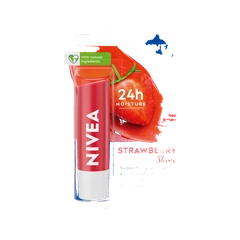
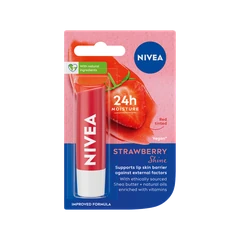
Arreglo de tonos: Nivea Strawberry Shine completo y muestras del Sublime
- Lip care Nivea: el fondo blanco se quita solo desde los bordes de la foto,
  sin recortador automático, que cortaba el empaque de Strawberry Shine.
- Iluminador Sublime: cada tono muestra su textura, recortada de la foto de
  la tienda que las rotula TONO 01 y TONO 02, para que se diferencien.

Claude-Session: https://claude.ai/code/session_01LNLN1rUKGy8qFZBEtECZrz

Changed region(s): [[0.2625, 0.1167, 0.7583, 0.875]]

diff --git a/scripts/fetch-shades.py b/scripts/fetch-shades.py
@@ -18,7 +18,8 @@ import html, io, json, re, sys, unicodedata, urllib.request
 from pathlib import Path
 from urllib.parse import parse_qs, quote, unquote, urlencode, urljoin, urlsplit
 
-from PIL import Image
+import numpy as np
+from PIL import Image, ImageDraw
 
 ROOT = Path(__file__).resolve().parent.parent
 DATA = ROOT / 'data' / 'products.json'
@@ -63,7 +64,10 @@ SHADE_PAGES = {
     'Atenea|Base de maquillaje 1ST Scene': 'https://ateneaprofesional.com/products/mini-base-liquida-1st-scene',
     'Atenea|Rubor compacto 1ST Scene': 'https://ateneaprofesional.com/products/rubores-individuales-1st-scene',
     'Atenea|Bronzer cremoso en barra': 'https://ateneaprofesional.com/products/bronzer-cremoso',
-    'Atenea|Iluminador efecto húmedo Sublime': 'https://ateneaprofesional.com/products/iluminador-efecto-humedo-sublime',
+    # Sublime: las dos muestras de textura de la foto de la tienda ("TONO 01" arriba, "TONO 02" abajo), recortadas.
+    'Atenea|Iluminador efecto húmedo Sublime': {
+        'items': [('SH001', 'https://cdn.shopify.com/s/files/1/0741/6132/4314/files/ILUMINADOR_EFECTO_HUMEDO-03.webp#crop=0,0,0.5,0.5'), ('SH002', 'https://cdn.shopify.com/s/files/1/0741/6132/4314/files/ILUMINADOR_EFECTO_HUMEDO-03.webp#crop=0,0.5,0.5,1')],
+        'label': 'Color', 'source': 'https://ateneaprofesional.com/products/iluminador-efecto-humedo-sublime'},
     'Atenea|Serum Tinted 1ST Scene': 'https://ateneaprofesional.com/products/serum-tinted-foundation',
     'Atenea|Rubor cremoso en barra': 'https://ateneaprofesional.com/products/rubor-en-barra-cremoso-atenea-collection',
     'Atenea|Pigmento Soft Touch': 'https://ateneaprofesional.com/products/sombra-cremosa-individual',
@@ -230,10 +234,33 @@ KEEP_BACKGROUND = {
     'Bloomshell|Trío de Rubores', 'Samy|Paleta de sombras x9',
     # Las fotos de cada tono traen una tarjeta blanca con íconos que el recorte no separa.
     'Atenea|Rubor cremoso en barra',
+    # Muestras de textura recortadas y empaque de Nivea, que el recorte cortaba.
+    'Atenea|Iluminador efecto húmedo Sublime',
 }
+# Fotos con fondo que deben verse completas dentro del círculo (empaques que llegan al borde de la foto).
+FIT_IN_CIRCLE = set()
+# Fondo blanco liso: se vuelve transparente solo el blanco conectado con los bordes de la foto (sin
+# recortador automático, que aquí borraba partes del empaque). El producto no se toca.
+WHITE_BACKGROUND = {'Nivea|Lip care - 24 horas de humectación'}
+
+
+def white_to_alpha(img, tolerance=12):
+    """Transparente el blanco liso que toca los bordes (relleno desde los bordes, no dentro del producto)."""
+    work = img.convert('RGB')
+    w, h = work.size
+    marker = (1, 254, 3)                                  # color que no aparece en la foto
+    edges = [(x, y) for x in range(0, w, max(1, w // 40)) for y in (0, h - 1)] \
+        + [(x, y) for y in range(0, h, max(1, h // 40)) for x in (0, w - 1)]
+    for xy in edges:
+        if all(c >= 255 - tolerance for c in work.getpixel(xy)):
+            ImageDraw.floodfill(work, xy, marker, thresh=tolerance)
+    background = np.all(np.array(work) == marker, axis=2)
+    out = np.array(img.convert('RGBA'))
+    out[background, 3] = 0
+    return Image.fromarray(out)
 
 # Tonos cuyas fotos de la tienda no muestran el producto (primer plano de textura, ambiente): solo nombres.
-NAMES_ONLY = {'Atenea|Iluminador efecto húmedo Sublime'}
+NAMES_ONLY = set()
 
 _SESSION = None
 MARGIN = 0.10         # aire mínimo alrededor del producto
@@ -274,10 +301,13 @@ def frame_product(img, size):
     return canvas.resize((size, size), Image.LANCZOS) if side > size else canvas
 
 
-def square(img):
-    """Lienzo cuadrado con la foto centrada y completa (relleno con el color de la esquina)."""
+def square(img, fit=False):
+    """Lienzo cuadrado con la foto centrada y completa (relleno con el color de la esquina).
+    Con fit=True el lienzo crece hasta que las esquinas de la foto caben en el círculo de la web."""
     img = img.convert('RGBA')
     side = max(img.size)
+    if fit:
+        side = round(max(side, (img.width ** 2 + img.height ** 2) ** 0.5 / DISC))
     corner = img.getpixel((0, 0))
     bg = corner if corner[3] > 0 else (217, 211, 195, 255)   # beige del disco si es transparente
     canvas = Image.new('RGBA', (side, side), bg)
@@ -428,9 +458,12 @@ def woocommerce_options(url):
 
 
 def fixed_items(items, source):
-    """Opciones con nombre fijo, cada una con su página de producto (VTEX con /p, o datos estructurados)."""
+    """Opciones con nombre fijo, cada una con su página de producto (VTEX con /p, datos estructurados) o su foto."""
     found = []
     for name, page in items:
+        if re.search(r'\.(jpe?g|png|webp)(#crop=[\d.,]+)?$', page, re.I):   # foto directa, con su "#crop=" si lo trae
+            found.append((name, page))
+            continue
         page, _, n = page.partition('#')                      # "#N": foto N de la página (sin letreros)
         n = int(n or 1) - 1
         parts = urlsplit(page)
@@ -444,7 +477,7 @@ def fixed_items(items, source):
     return 'Opción', found, source
 
 
-def shades_for(product, url, keep_background=False):
+def shades_for(product, url, keep_background=False, fit=False, white_bg=False):
     if isinstance(url, dict) and 'items' in url:
         option, items, url = fixed_items(url['items'], url['source'])
     elif isinstance(url, dict) and 'woo' in url:
@@ -480,14 +513,22 @@ def shades_for(product, url, keep_background=False):
         shade = {'name': name}
         if src:
             src = urljoin(url, src)
+            src, _, crop = src.partition('#crop=')               # "#crop=x0,y0,x1,y1": recorte (fracciones de la foto)
             original = Image.open(io.BytesIO(get(src)))
+            if white_bg and not has_transparency(original):
+                original = white_to_alpha(original)
+            if crop:
+                x0, y0, x1, y1 = (float(v) for v in crop.split(','))
+                w, h = original.size
+                original = original.crop((round(x0 * w), round(y0 * h), round(x1 * w), round(y1 * h)))
+                src = f'{src}#crop={crop}'
             path = OUT / product['id'] / f'{slug(name)}.webp'
             path.parent.mkdir(parents=True, exist_ok=True)
             if src in seen_src:                       # misma foto para otro tono: no se recorta dos veces
                 big = seen_src[src]
             else:
                 if keep_background:
-                    big = square(original)
+                    big = square(original, fit=fit)
                     big = big.resize((LARGE, LARGE), Image.LANCZOS) if big.width > LARGE else big
                 else:
                     big = frame_product(original, LARGE)   # sin fondo, sobre el beige de la web
@@ -525,7 +566,7 @@ def main():
             print(f'!! {key}: no está en data/products.json')
             continue
         try:
-            shades, note, page_url = shades_for(product, url, key in KEEP_BACKGROUND)
+            shades, note, page_url = shades_for(product, url, key in KEEP_BACKGROUND, key in FIT_IN_CIRCLE, key in WHITE_BACKGROUND)
         except Exception as exc:   # red bloqueada, página movida…
             print(f'!! {key}: {exc}')
             continue

diff --git a/docs/AUDITORIA.md b/docs/AUDITORIA.md
@@ -587,7 +587,7 @@ Ajustes de nombres autorizados: Base Glow Filter sin el sufijo "Glow Filter" (la
 - **Chap Stick Protector labial:** cada sabor del catálogo (Fresa, Cereza, Menta y Medicado) se puede elegir con su foto de chapstick.com.co (autorizado por Ágata Beauty).
 - **Sin foto oficial utilizable todavía:** Skin 1004 Poremizing (todas las fotos son con modelo o con sello publicitario); presentaciones de 30 y 40 ml de Leche pal pelo (la tienda solo tiene 440 ml / 800 ml); Lehit no publica fotos de productos en su página; Prosa Aceite para pestañas no está en su tienda; Maybelline, Garnier y Johnson's se toman de las tiendas que indicó Ágata Beauty (Medipiel, Cromantic, Éxito); descartadas: Garnier Pure Active (todas las fotos con letreros) y Johnson's Baño líquido Avena y Antes de dormir (otra versión de la etiqueta). Lehit: 2 de 4 desde tiendalehit.com (las de aguacate y cebolla traen adornos que quedan sueltos al quitar el fondo). Johnson's Shampoo cabello oscuro y amarillo (La Rebaja): descartados porque la tienda muestra frasco con tapa y el catálogo con dosificador. Cruz Verde no permite descargar sus fotos sin sesión; Ágata Beauty dio enlaces de Éxito en su lugar: Garnier 100 ml, Johnson's cabello claro y Crema líquida baby ya tienen foto; Garnier vitamina C (fotos con letreros o mano) y Johnson's Crema líquida avena (otra etiqueta) siguen con la foto del catálogo.
 - **Revisión de Ágata Beauty (recortes con zonas borradas):** vuelven a la foto del catálogo Montoc Base Glow Filter, Bloomshell Trío de Rubores, Papel Bloom powder paper y Kit Kiss Love, Majikal Shiny Lip Oil y Atenea Matterpowder; y las fotos de los tonos de Base Glow Filter, Kit Fluffy, Base 2 en 1, Trío de Rubores y Paleta x9 de Samy se muestran con el fondo de la tienda (`KEEP_BACKGROUND`).
-- **Tonos agregados:** Atenea Serum Tinted 1ST Scene (9) y Rubor cremoso en barra (4, nombres del catálogo), Nivea Lip care (Strawberry Shine y Blackberry Shine, desde nivea.com.co). Iluminador Sublime: solo los nombres SH001 y SH002, porque las fotos de la tienda son de textura o de ambiente.
+- **Tonos agregados:** Atenea Serum Tinted 1ST Scene (9) y Rubor cremoso en barra (4, nombres del catálogo), Nivea Lip care (Strawberry Shine y Blackberry Shine, desde nivea.com.co). Iluminador Sublime: cada tono muestra su muestra de textura, recortada de la foto de la tienda que las rotula "TONO 01" y "TONO 02". Nivea Strawberry Shine: el fondo blanco se quita solo desde los bordes (sin recortador automático), porque el recorte automático cortaba el empaque.
 - **Pestañinas Maybelline (Sky High, Colossal, Surreal):** se puede elegir la versión Lavable (foto de Medipiel) o A prueba de agua (foto de Cromantic), autorizado por Ágata Beauty.
 - **No encontrados con seguridad en la tienda** (pendientes de enlace exacto): Bloomshell Paleta Bloom Vibes, Bloom Termo, Bloom porta cosméticos, Iluminador Bloom Dazlee, los 2 polvos sueltos y Brillo labial Bombón; OG Gloss and lip Dreamy y Brillo labial Yess Queen.
 - **12 productos con tonos** (base y corrector Bloomshell, polvo suelto y paleta x9 Samy, Raquel, perfume Milagros y los 6 de Fantiluna) publican cada tono como producto aparte: su foto principal sigue pendiente.
